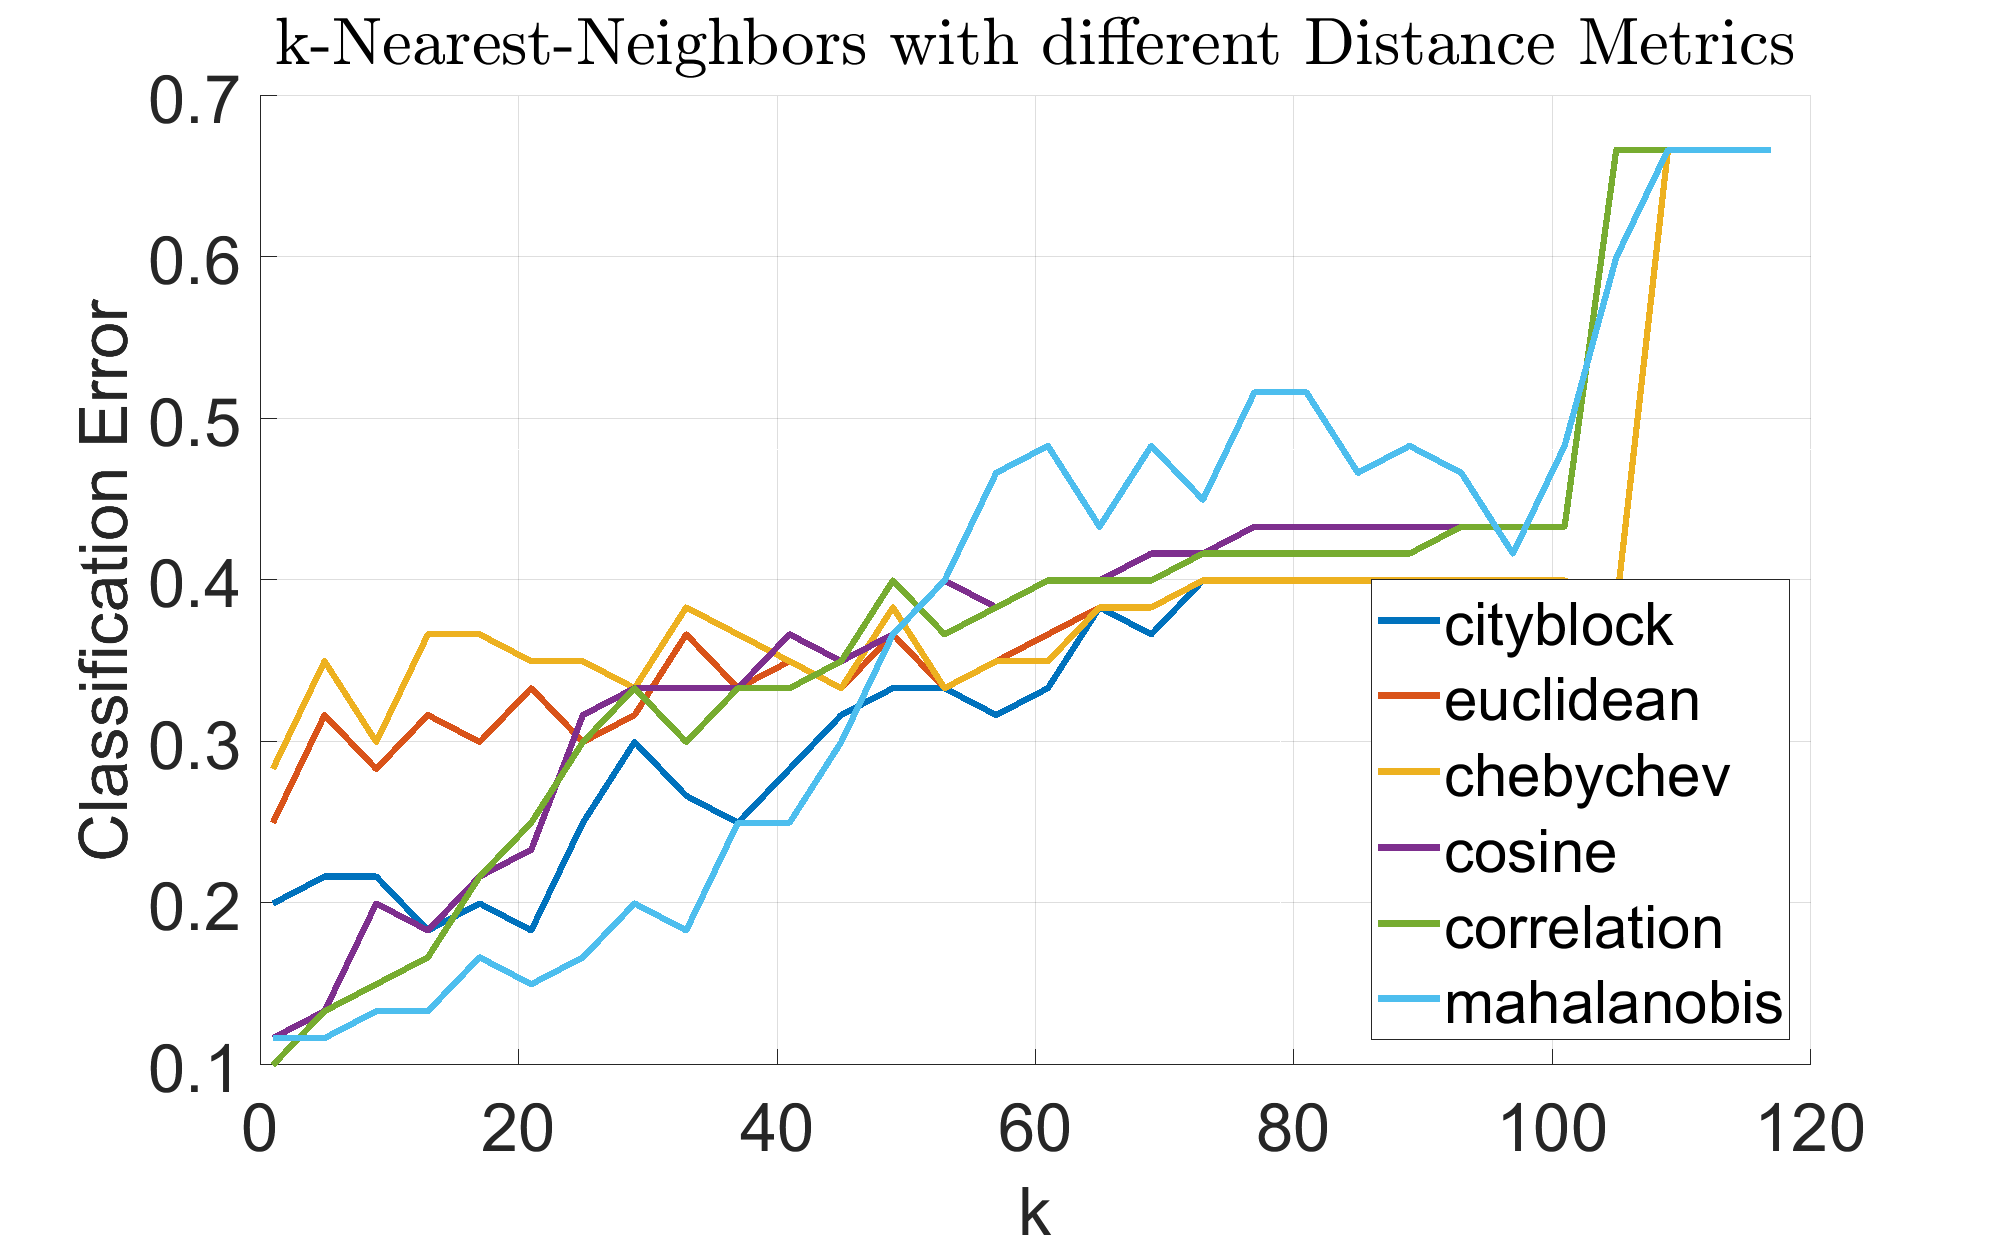
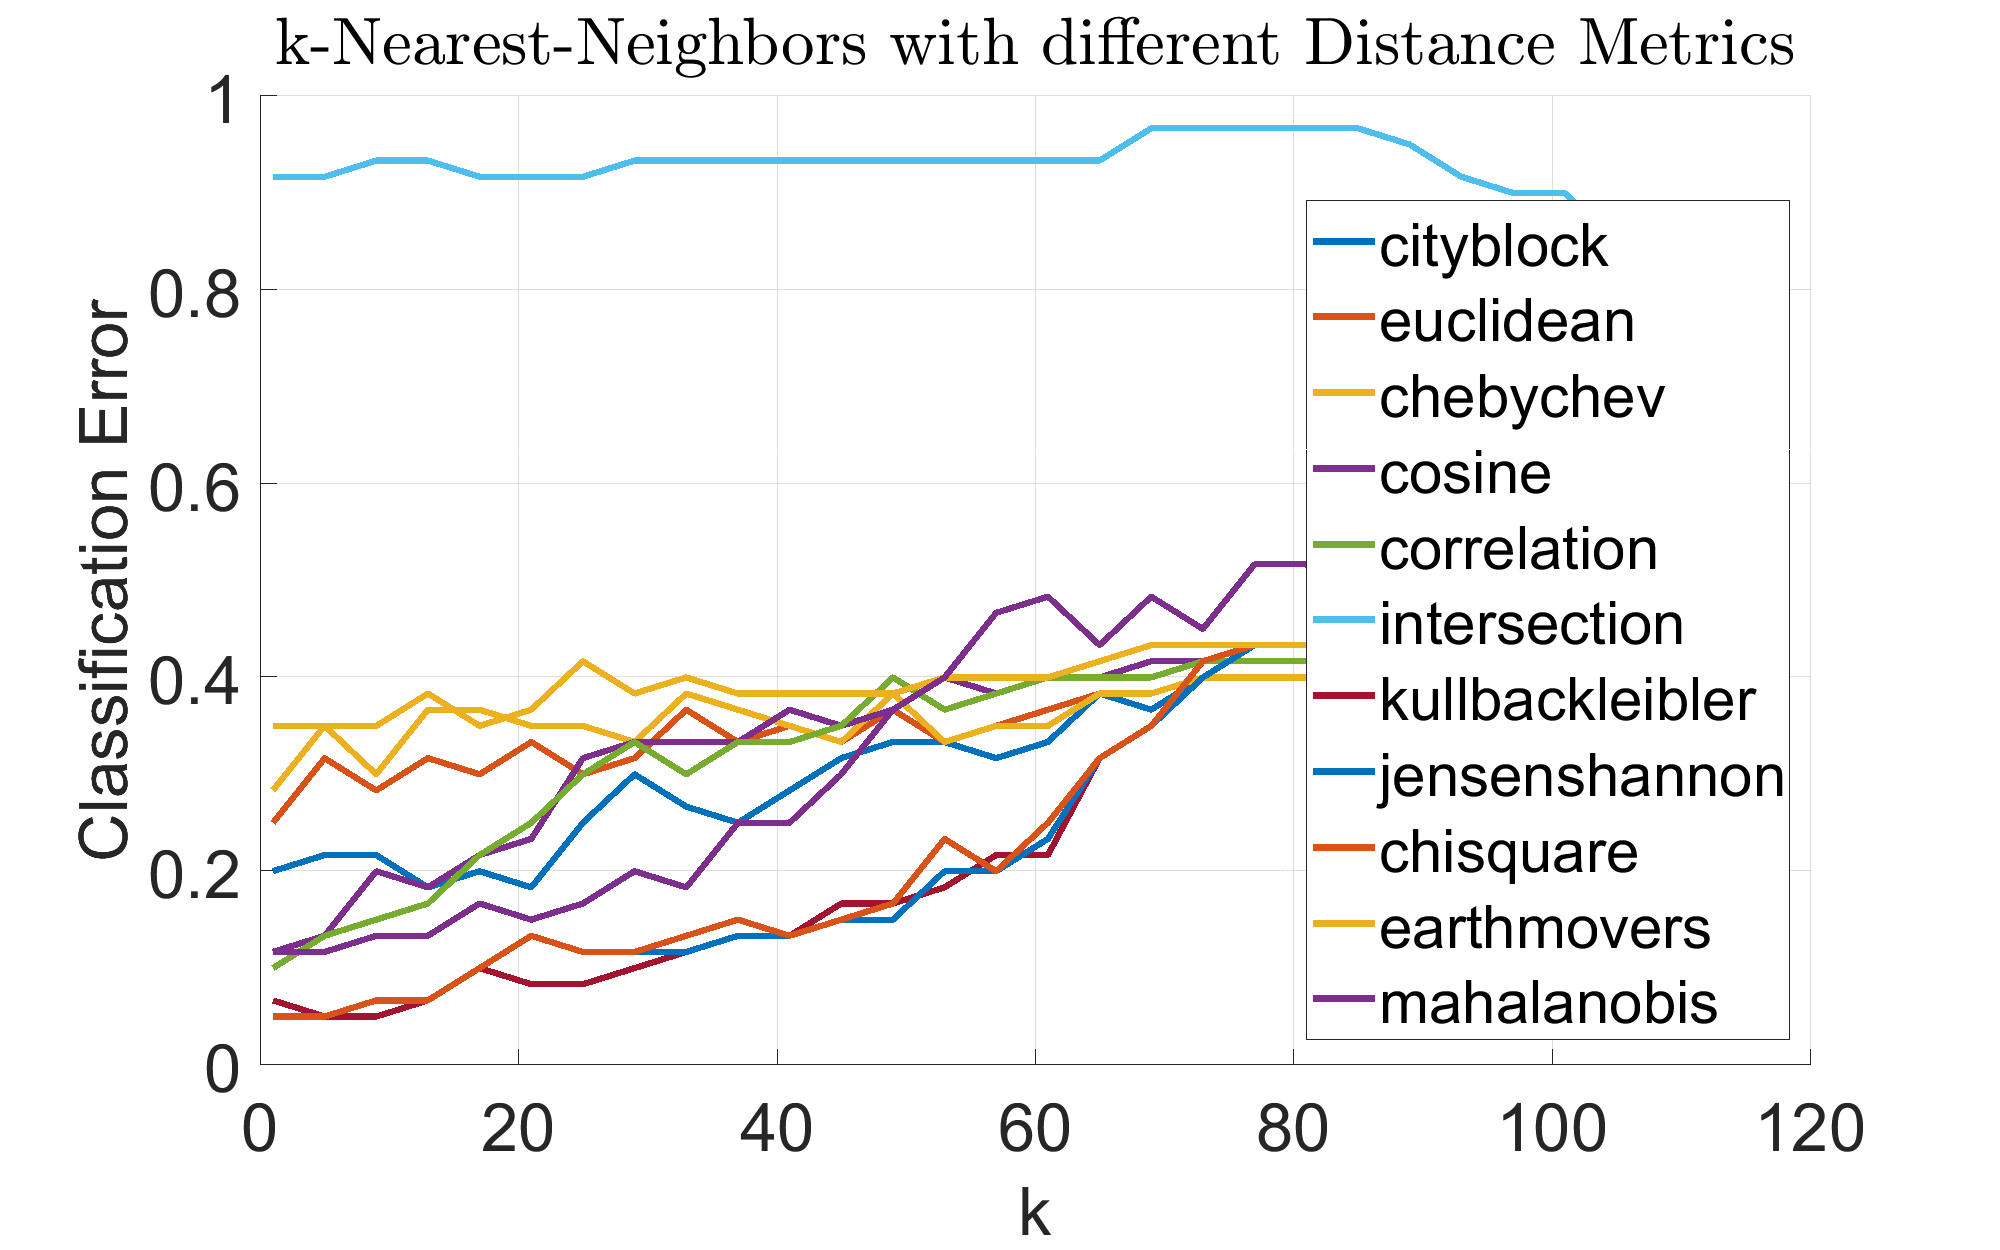
Add files via upload

diff --git a/jeffrey_divergence.m b/jeffrey_divergence.m
@@ -1,0 +1,55 @@
+function d=jeffrey_divergence(XI,XJ)
+  % Implementation of the Jeffrey Divergence
+  % (cf. "The Earth Movers' Distance as a Metric for Image Retrieval",
+  %      Y. Rubner, C. Tomasi, L.J. Guibas, 2000)
+  %
+  % @author: B. Schauerte
+  % @date:   2009
+  % @url:    http://cvhci.anthropomatik.kit.edu/~bschauer/
+
+  % Copyright 2009 B. Schauerte. All rights reserved.
+  % 
+  % Redistribution and use in source and binary forms, with or without 
+  % modification, are permitted provided that the following conditions are 
+  % met:
+  % 
+  %    1. Redistributions of source code must retain the above copyright 
+  %       notice, this list of conditions and the following disclaimer.
+  % 
+  %    2. Redistributions in binary form must reproduce the above copyright 
+  %       notice, this list of conditions and the following disclaimer in 
+  %       the documentation and/or other materials provided with the 
+  %       distribution.
+  % 
+  % THIS SOFTWARE IS PROVIDED BY B. SCHAUERTE ''AS IS'' AND ANY EXPRESS OR 
+  % IMPLIED WARRANTIES, INCLUDING, BUT NOT LIMITED TO, THE IMPLIED 
+  % WARRANTIES OF MERCHANTABILITY AND FITNESS FOR A PARTICULAR PURPOSE ARE 
+  % DISCLAIMED. IN NO EVENT SHALL B. SCHAUERTE OR CONTRIBUTORS BE LIABLE 
+  % FOR ANY DIRECT, INDIRECT, INCIDENTAL, SPECIAL, EXEMPLARY, OR 
+  % CONSEQUENTIAL DAMAGES (INCLUDING, BUT NOT LIMITED TO, PROCUREMENT OF 
+  % SUBSTITUTE GOODS OR SERVICES; LOSS OF USE, DATA, OR PROFITS; OR 
+  % BUSINESS INTERRUPTION) HOWEVER CAUSED AND ON ANY THEORY OF LIABILITY, 
+  % WHETHER IN CONTRACT, STRICT LIABILITY, OR TORT (INCLUDING NEGLIGENCE OR
+  % OTHERWISE) ARISING IN ANY WAY OUT OF THE USE OF THIS SOFTWARE, EVEN IF
+  % ADVISED OF THE POSSIBILITY OF SUCH DAMAGE.
+  % 
+  % The views and conclusions contained in the software and documentation
+  % are those of the authors and should not be interpreted as representing 
+  % official policies, either expressed or implied, of B. Schauerte.
+  
+  m=size(XJ,1); % number of samples of p
+  p=size(XI,2); % dimension of samples
+  
+  assert(p == size(XJ,2)); % equal dimensions
+  assert(size(XI,1) == 1); % pdist requires XI to be a single sample
+  
+  d=zeros(m,1); % initialize output array
+  
+  for i=1:m
+    for j=1:p
+      m=(XJ(i,j) + XI(1,j)) / 2;
+			if m ~= 0  % if m == 0, then xi == xj == 0
+				d(i,1) = d(i,1) + (XI(1,j) * log(XI(1,j) / m)) + (XJ(i,j) * log(XJ(i,j) / m));
+			end
+    end
+  end

diff --git a/quadratic_form_distance.m b/quadratic_form_distance.m
@@ -1,0 +1,56 @@
+function d=quadratic_form_distance(XI,XJ,A)
+  % Implementation of the Quadratic form distance
+  % (cf. "The Earth Movers' Distance as a Metric for Image Retrieval",
+  %      Y. Rubner, C. Tomasi, L.J. Guibas, 2000)
+  %
+  % @author: B. Schauerte
+  % @date:   2009
+  % @url:    http://cvhci.anthropomatik.kit.edu/~bschauer/
+
+  % Copyright 2009 B. Schauerte. All rights reserved.
+  % 
+  % Redistribution and use in source and binary forms, with or without 
+  % modification, are permitted provided that the following conditions are 
+  % met:
+  % 
+  %    1. Redistributions of source code must retain the above copyright 
+  %       notice, this list of conditions and the following disclaimer.
+  % 
+  %    2. Redistributions in binary form must reproduce the above copyright 
+  %       notice, this list of conditions and the following disclaimer in 
+  %       the documentation and/or other materials provided with the 
+  %       distribution.
+  % 
+  % THIS SOFTWARE IS PROVIDED BY B. SCHAUERTE ''AS IS'' AND ANY EXPRESS OR 
+  % IMPLIED WARRANTIES, INCLUDING, BUT NOT LIMITED TO, THE IMPLIED 
+  % WARRANTIES OF MERCHANTABILITY AND FITNESS FOR A PARTICULAR PURPOSE ARE 
+  % DISCLAIMED. IN NO EVENT SHALL B. SCHAUERTE OR CONTRIBUTORS BE LIABLE 
+  % FOR ANY DIRECT, INDIRECT, INCIDENTAL, SPECIAL, EXEMPLARY, OR 
+  % CONSEQUENTIAL DAMAGES (INCLUDING, BUT NOT LIMITED TO, PROCUREMENT OF 
+  % SUBSTITUTE GOODS OR SERVICES; LOSS OF USE, DATA, OR PROFITS; OR 
+  % BUSINESS INTERRUPTION) HOWEVER CAUSED AND ON ANY THEORY OF LIABILITY, 
+  % WHETHER IN CONTRACT, STRICT LIABILITY, OR TORT (INCLUDING NEGLIGENCE OR
+  % OTHERWISE) ARISING IN ANY WAY OUT OF THE USE OF THIS SOFTWARE, EVEN IF
+  % ADVISED OF THE POSSIBILITY OF SUCH DAMAGE.
+  % 
+  % The views and conclusions contained in the software and documentation
+  % are those of the authors and should not be interpreted as representing 
+  % official policies, either expressed or implied, of B. Schauerte.
+  
+	if nargin < 3
+		error('Not enough arguments, i.e. similarity matrix is missing')
+	end
+
+  m=size(XJ,1); % number of samples of p
+  p=size(XI,2); % dimension of samples
+  
+  assert(p == size(XJ,2)); % equal dimensions
+  assert(size(XI,1) == 1); % pdist requires XI to be a single sample
+  
+  d=zeros(m,1); % initialize output array
+  
+	diff=zeros(1,p);
+  for i=1:m
+		diff=(XI - XJ(i,:));
+		d(i) = sqrt( diff * A * diff' );
+  end

diff --git a/q1_distance_metrics_old.m b/q1_distance_metrics_old.m
@@ -7,16 +7,14 @@ test_labels = test(:,1);
 
 % Parameters
 k_arr = [1:4:size(train_data,1)];
-%chisquaredist = @(x,Z)sqrt((bsxfun(@minus,x,Z).^2)*w);
-chisquare = @(A,B)pdist2_custom(A,B,'chisq');
+% chisquare = @(A,B)pdist2_custom(A,B,'chisq');
+chisquaredist = @(x,Z)sqrt((bsxfun(@minus,x,Z).^2)*w);
 earthmovers = @(A,B)pdist2_custom(A,B,'emd');
 kullbackleibler = @(A,B)KLDiv(A,B);
-intersection = @(A,B)intersection_dist(A,B);
-jensenshannon = @(A,B)jensen_shannon_dist(A,B);
-% quadraticform = @(A,B)quadratic_form_dist(A,B);
-distance_metrics = ["cityblock","euclidean","chebychev","cosine","correlation","intersection","kullbackleibler","jensenshannon","chisquare","earthmovers","mahalanobis"]; % "minkowski","seuclidean"
+distance_metrics = ["cityblock","euclidean","chebychev","cosine","correlation","mahalanobis","chisquare","kullbackleibler","earthmovers"]; % "minkowski","seuclidean"
 
-% STILL NEED TO IMPLEMENT: Quadratic form, Quadratic Chi
+% STILL NEED TO IMPLEMENT: Intersection, Kullback-Leibler divergence,
+% Jenses-Shanon divergence, Chi square, Quadratic form, Earth movers
 
 %%
 errors = zeros(size(distance_metrics,2), size(k_arr,2));
@@ -28,17 +26,11 @@ for ind_k = 1:size(k_arr,2)
         dist = char(distance_metrics(ind_d))
 
         if strcmp(dist,'chisquare')
-            neighbor_indices = knn_custom(train_data, test_data, K, chisquare);
-        elseif strcmp(dist,'intersection')
-            neighbor_indices = knn_custom(train_data, test_data, K, intersection);
-        elseif strcmp(dist,'jensenshannon')
-            neighbor_indices = knn_custom(train_data, test_data, K, jensenshannon);
-%         elseif strcmp(dist,'quadraticform')
-%             neighbor_indices = knn_custom(train_data, test_data, K, quadraticform);
+            neighbor_indices = knnsearch(train_data, test_data, 'K', K, 'distance', chisquare);
         elseif strcmp(dist,'earthmovers')
-            neighbor_indices = knn_custom(train_data, test_data, K, earthmovers);
+            neighbor_indices = knnsearch(train_data, test_data, 'K', K, 'distance', earthmovers);
         elseif strcmp(dist,'kullbackleibler')
-            neighbor_indices = knn_custom(train_data, test_data, K, kullbackleibler);
+            neighbor_indices = knnsearch(train_data, test_data, 'K', K, 'distance', kullbackleibler);
         else
             neighbor_indices = knnsearch(train_data, test_data, 'K', K, 'distance', dist);
         end

diff --git a/jensen_shannon_divergence.m b/jensen_shannon_divergence.m
@@ -1,0 +1,41 @@
+function d=jensen_shannon_divergence(XI,XJ)
+  % Implementation of the Jensen-Shannon Divergence to use with pdist
+  % (cf. "The Earth Movers' Distance as a Metric for Image Retrieval",
+  %      Y. Rubner, C. Tomasi, L.J. Guibas, 2000)
+  %
+  % @author: B. Schauerte
+  % @date:   2009
+  % @url:    http://cvhci.anthropomatik.kit.edu/~bschauer/
+  
+  % Copyright 2009 B. Schauerte. All rights reserved.
+  % 
+  % Redistribution and use in source and binary forms, with or without 
+  % modification, are permitted provided that the following conditions are 
+  % met:
+  % 
+  %    1. Redistributions of source code must retain the above copyright 
+  %       notice, this list of conditions and the following disclaimer.
+  % 
+  %    2. Redistributions in binary form must reproduce the above copyright 
+  %       notice, this list of conditions and the following disclaimer in 
+  %       the documentation and/or other materials provided with the 
+  %       distribution.
+  % 
+  % THIS SOFTWARE IS PROVIDED BY B. SCHAUERTE ''AS IS'' AND ANY EXPRESS OR 
+  % IMPLIED WARRANTIES, INCLUDING, BUT NOT LIMITED TO, THE IMPLIED 
+  % WARRANTIES OF MERCHANTABILITY AND FITNESS FOR A PARTICULAR PURPOSE ARE 
+  % DISCLAIMED. IN NO EVENT SHALL B. SCHAUERTE OR CONTRIBUTORS BE LIABLE 
+  % FOR ANY DIRECT, INDIRECT, INCIDENTAL, SPECIAL, EXEMPLARY, OR 
+  % CONSEQUENTIAL DAMAGES (INCLUDING, BUT NOT LIMITED TO, PROCUREMENT OF 
+  % SUBSTITUTE GOODS OR SERVICES; LOSS OF USE, DATA, OR PROFITS; OR 
+  % BUSINESS INTERRUPTION) HOWEVER CAUSED AND ON ANY THEORY OF LIABILITY, 
+  % WHETHER IN CONTRACT, STRICT LIABILITY, OR TORT (INCLUDING NEGLIGENCE OR
+  % OTHERWISE) ARISING IN ANY WAY OUT OF THE USE OF THIS SOFTWARE, EVEN IF
+  % ADVISED OF THE POSSIBILITY OF SUCH DAMAGE.
+  % 
+  % The views and conclusions contained in the software and documentation
+  % are those of the authors and should not be interpreted as representing 
+  % official policies, either expressed or implied, of B. Schauerte.
+  
+  d=jeffrey_divergence(XI,XJ);
+  d=d / 2;

diff --git a/knn_custom.m b/knn_custom.m
@@ -1,0 +1,19 @@
+function indices = knn_custom(X,Y,k,dist_func)
+% Rows are elements
+% Columns are features
+indices = zeros(size(Y,1),size(X,1));
+for ind_y = 1:size(Y,1)
+    A = normr(Y(ind_y,:));
+    B = normr(X);
+    
+    vals = dist_func(A,B);
+    inds = 1:size(vals,2);
+    neighbors = vertcat(vals, inds);
+    neighbors = sortrows(neighbors',1)';
+    %[~, closest_ind] = min(dist_func(A,B));
+    indices(ind_y,:) = neighbors(2,:);
+end
+% Take k nearest neighbors
+indices = indices(:,1:k);
+
+end

diff --git a/intersection_dist.m b/intersection_dist.m
@@ -1,0 +1,17 @@
+function dist = intersection_dist(A,B)
+if (size(A,1) > 1)
+    A
+    B
+    error('Expecting a single row vector for A, and m row vectors of the same length for B');
+end
+
+% A = normr(A);
+% B = normr(B);
+dist = zeros(size(B,1),1);
+for i=1:size(B,1)
+    b = B(i,:);
+    mins = min(vertcat(b,A),[],1);
+    dist(i,1) = sum(mins, 2);
+end
+dist = dist';
+end

diff --git a/jensen_shannon_dist.m b/jensen_shannon_dist.m
@@ -1,0 +1,16 @@
+function dist = jensen_shannon_dist(A,B)
+if (size(A,1) > 1)
+    A
+    B
+    error('Expecting a single row vector for A, and m row vectors of the same length for B');
+end
+
+% A = normr(A);
+% B = normr(B);
+dist = zeros(size(B,1),1);
+for i=1:size(B,1)
+    b = B(i,:);
+    dist(i,1) = jensen_shannon_divergence(b,A);
+end
+dist = dist';
+end

diff --git a/quadratic_form_dist.m b/quadratic_form_dist.m
@@ -1,0 +1,16 @@
+function dist = quadratic_form_dist(A,B)
+if (size(A,1) > 1)
+    A
+    B
+    error('Expecting a single row vector for A, and m row vectors of the same length for B');
+end
+
+% A = normr(A);
+% B = normr(B);
+dist = zeros(size(B,1),1);
+for i=1:size(B,1)
+    b = B(i,:);
+    dist(i,1) = quadratic_form_distance(b,A);
+end
+dist = dist';
+end
